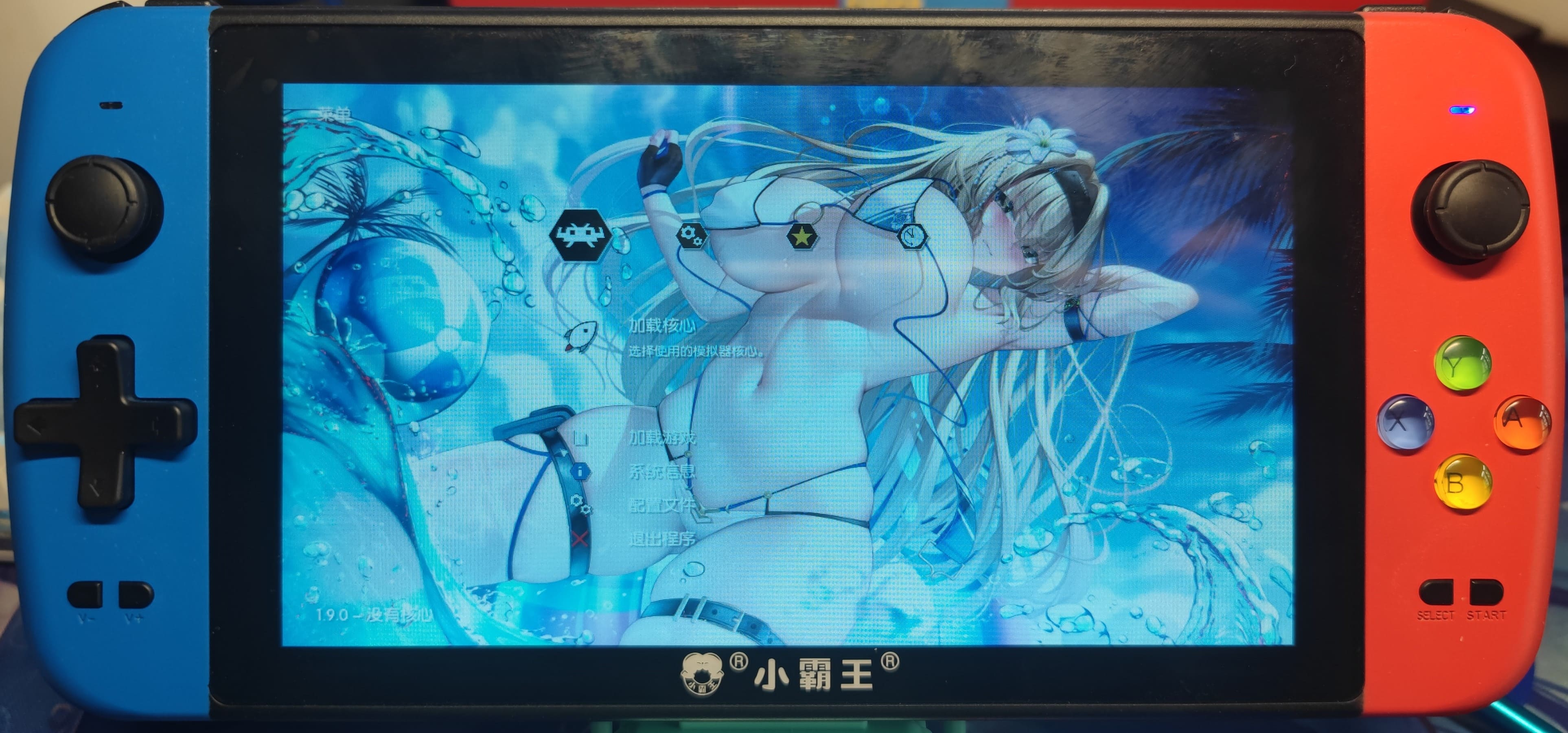
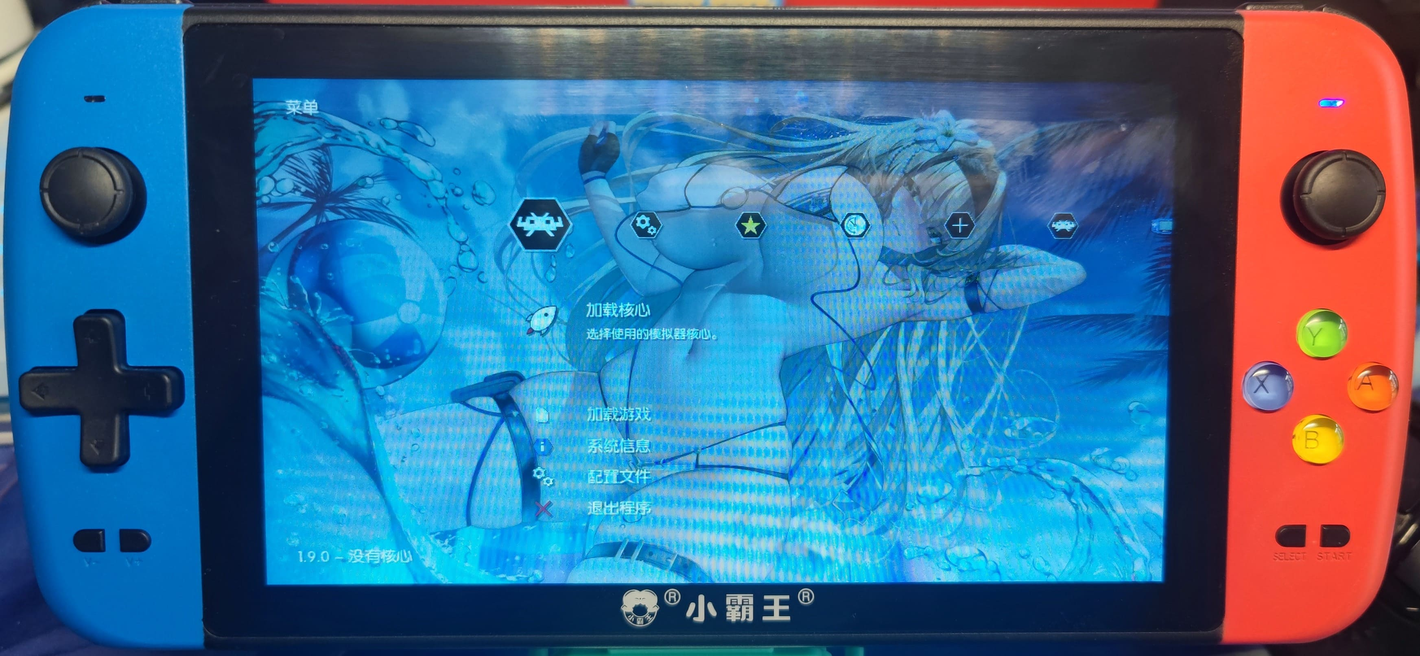
20231229153246

diff --git a/rtcls/games/q900ra/q900ra.html b/rtcls/games/q900ra/q900ra.html
@@ -50,6 +50,11 @@
             <div class="h6 article">注：包内暂未整合游戏，需要玩家自行添加（非常简单）；有游戏的整合包后续看人气决定要不要做。</div>
         </div>
         <div class="bg-light article_bg">
+            <div class="h3 article article_title"><em>更新日志</em></div>
+            <div class="h5 article">【个人修改】</div>
+            <div class="h6 article">⭐2023.12.29：①添加中文「方正准圆简体」字库，现在可以使用中文菜单；②整合 RA 官网全部核心；③降低菜单背景不透明度，现在菜单更加清晰；④调整菜单内容，加入扫描和搜索；⑤开启「退出程序时自动保存配置文件」。</div>
+        </div>
+        <div class="bg-light article_bg">
             <div class="h3 article article_title"><em>刷机教程</em></div>
             <div class="h6 article">&emsp;&emsp;1、根据您机子的开模选择合适的版本：「V1 版本」适用于「单 USB 口的机子」；「V2 版本」适用于「双 USB 口的机子」。</div>
             <div class="h6 article">
